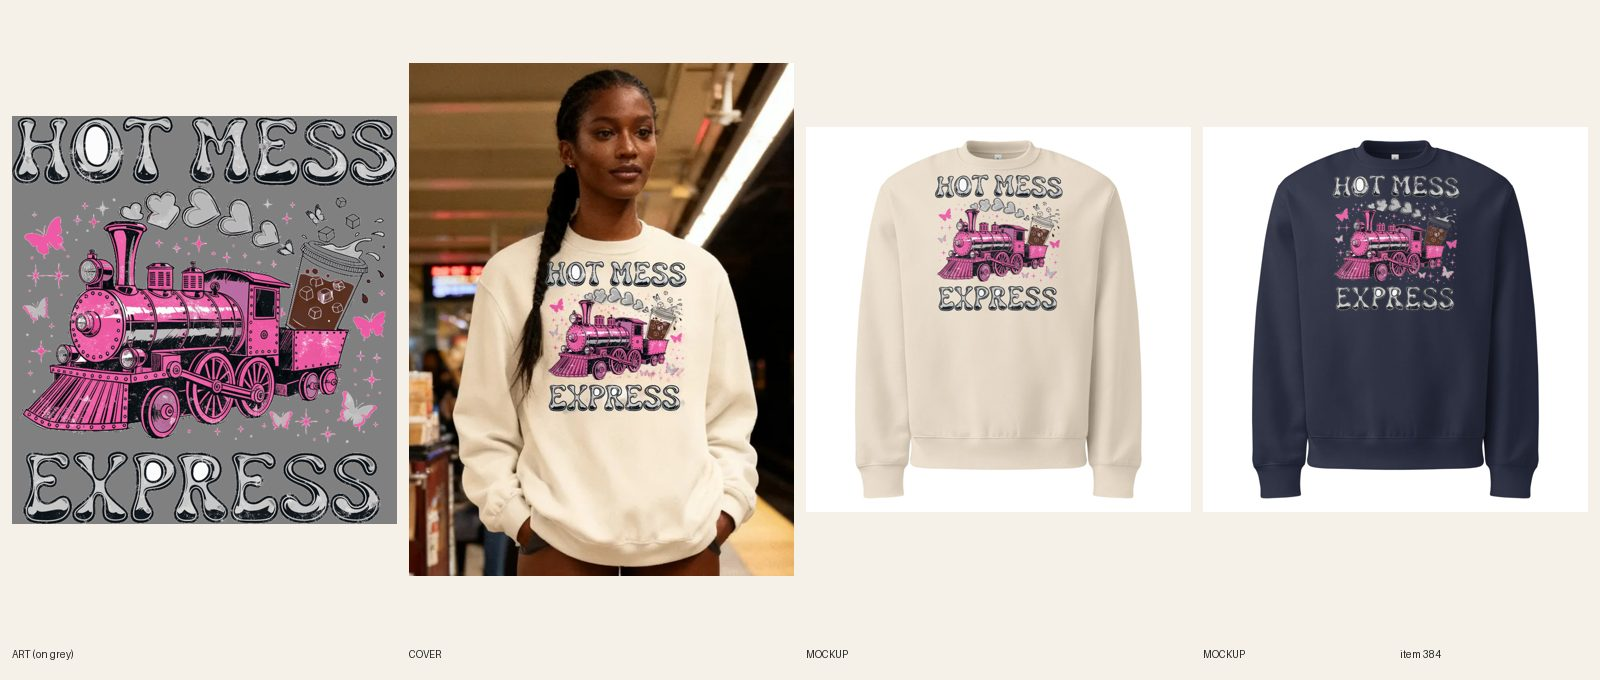
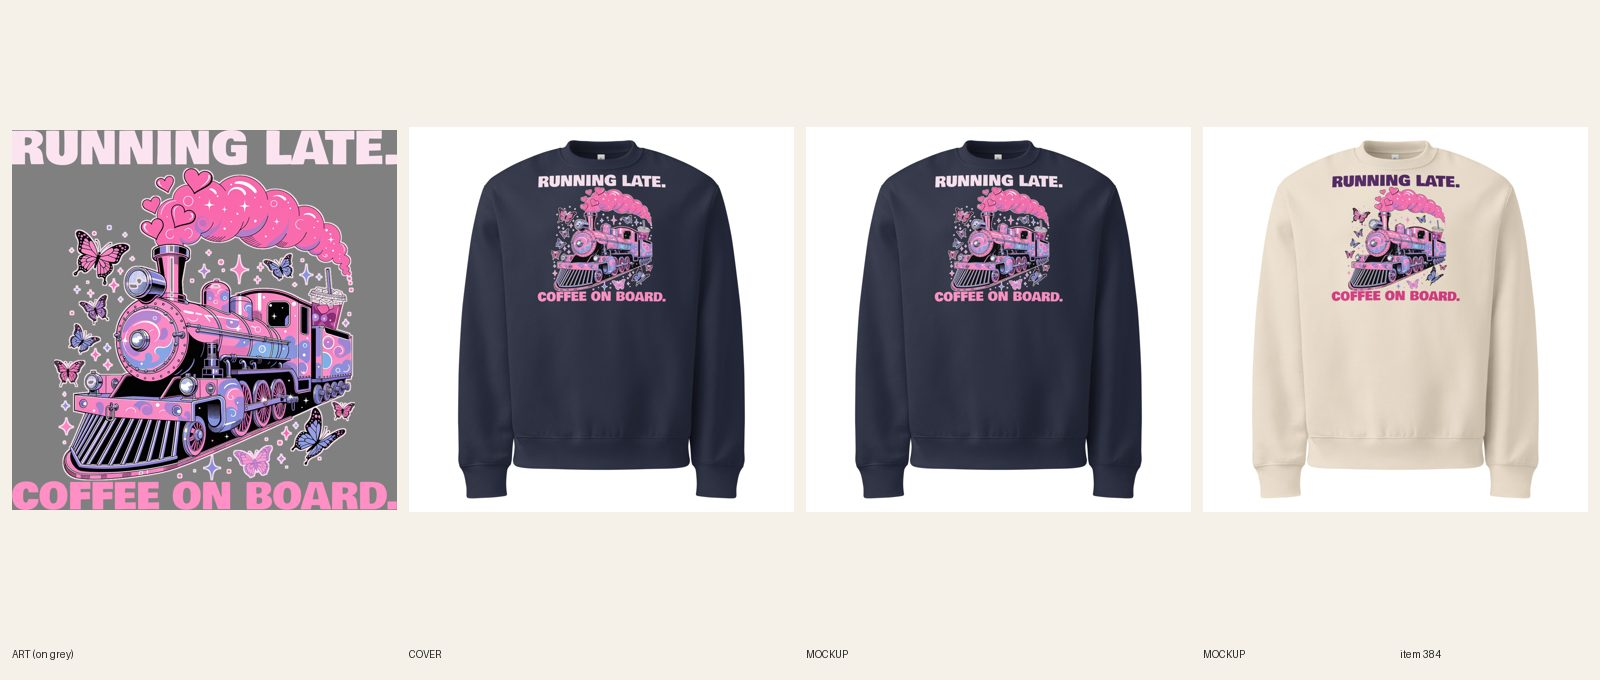
[B] review 384 Running Late Coffee on Board Y2K oversized sweatshirt (line + type redo)

diff --git a/docs/pipeline/384-y2k-osw-hot-mess-express.md b/docs/pipeline/384-y2k-osw-hot-mess-express.md
@@ -1,4 +1,4 @@
-status: BUILDING [B] 2026-10-20 06:58
+status: REVIEW
 lane: B
 type: twin
 id: 384
@@ -29,3 +29,4 @@ kd: 58
 - 2026-10-18 01:50 UTC builder [B]: REDO done (no fal). Re-composited the exact print on the full-resolution 1536x2048 photo with CC_DIFF=60 so the inpaint no longer smears the background by her right shoulder (smudge gone), braid kept on top and clear of every letter, then cropped the cover waist-up (780x1040 of the photo, resized to 600x800): head to the hem, legs out of frame, print about 215 px wide. Review sheet rebuilt, astro build OK. fal $0.
 - 2026-10-18 02:45 UTC director: LIVE (ACTIVE + Online Store/Headless/Google & YouTube, audit PASS 0 warn).
 - 2026-10-18 17:22 UTC director: QUALITY RESET grade C (new line + type), REDO. The product stays ACTIVE (same handle, URL, title keyword). 1. Line (R3.12, quality-reset 'Lines'): "HOT MESS / EXPRESS": Worn-out stock phrase, no new angle. Write 5 candidates, keep the one a stranger laughs at in 3 seconds without backstory; kill lines that only describe the picture; if none of the 5 is funny, PARK it. 2. Quality reset type bar (docs/backlog/quality-reset.md, 'The new bar'): headline at least 90% of the art width, heavy, colors pulled from the art; second line at least 45% of the headline's height, never a thin script on a dark or mid garment; use the lettering as a shape (arch, stacked lockup, words breaking into the art), not a plain bar above and a script line below; no font used on more than 1 in 6 of the last 30 designs. 3. Keep the art if it carries the new line, else one new illustration (R4/R5). New print means a new cover per R6.10, copy line one rewritten for the new joke (R8.3), and a fresh review sheet (R7.7). While quality-reset.md says PAUSED, only lane A builds, and only the samples step 2 names.
+- 2026-10-20 10:30 UTC builder [B]: REDO 384 (C grade, line + type) done in place (stays ACTIVE, handle unchanged; title now "Women's Y2K – Running Late, Coffee on Board Oversized Sweatshirt"). 5 candidates: "RUNNING LATE. / COFFEE ON BOARD."; "Hot Mess Express" (old); "Delayed. Emotionally."; "Next Stop: Nap"; "All Aboard The Mess". Kept RUNNING LATE. / COFFEE ON BOARD. (train timetable pun the iced coffee in the coal car pays off; a stranger gets it in 3 seconds). The old art carried the old words (hand-drawn chrome letters baked in), so one new Recraft call ($0.04): glossy pink steam train, heart smoke, butterflies, sparkles, iced coffee in the coal car, no words. Bowlby One, ink widths (builder 7h): headline RUNNING LATE. 3600 px / punch COFFEE ON BOARD. 3600 px (equal). Colors Dust + Navy (as before). Navy file 1090221981 (cream + pink, thin cream halo); Dust light file 1090221999 (headline fill plum, punch hot pink; light file logged for Dust). FW 1650 TOP 0. 12/12 synced on the right file per color (verified via Printful), back logo kept. Fronts + back replaced in place, alts, title, SEO, copy updated (the old FAQ set had only 3 questions; the three kept, product-specific answers 40+ words; this item's FAQ was not part of the redo note, so no change). Phone-size read OK on both. Cover: handle added to retired-covers.json. audit --handle PASS. fal $0.04. Sheet docs/review/384.jpg. Note: the Hot Mess Express tee #129, zip hoodie #264 and hoodie #452 still carry the old line and art.

diff --git a/docs/intake-log.md b/docs/intake-log.md
@@ -2,6 +2,7 @@ RUNNING director since 2026-10-20 07:17 UTC
 RUNNING lane C since 2026-10-20 07:00 UTC
 2026-10-20 07:13 UTC — [C] Builder run: redid #506 Men's Golf retired zip hoodie round 2 (director note: RETIRED. / BAD AT GOLF FULL-TIME., punch 2749/2734 px vs headline 2597 px, scene edge ragged-edge.py, Ash file 1090222550 + Navy file 1090222579, BW 1650 BT 225, 12/12 relinked, back mockups replaced, copy + SEO updated). REVIEW. fal $0.
 2026-10-20 06:47 UTC — [B] Run summary: REVIEW #280 #362 #404 #440 (punch width), #318 #396 #513 #519 (crew punch width), #455 (Lost My Gelt), #469 (Busy at a Good Part, embroidered), #697 (new Outdoorsy in Theory cropped hoodie). #485 was finished by a second lane B session. #498 left for director re-grade (R3.14). fal about $0.16. Lock released.
+2026-10-20 07:19 UTC — [B] Builder run: redid #384 Women's Y2K oversized sweatshirt (line + type: RUNNING LATE. / COFFEE ON BOARD., new pink-train art, Bowlby One, Navy + Dust light files, ink widths 3600/3600, 12/12 synced). REVIEW. fal $0.04.
 2026-10-20 06:57 UTC — [A] Builder run: redid #361 Men's Grandpa I Fix Things After Naps crewneck (line+type: ON THE LIST SINCE 2009. / AFTER MY NAP., same napping grandpa art, Bowlby One full width, FW 1650 TOP 75, Sand file 1090217238 / Navy file 1090217265, 12/12 relinked, 2 fronts replaced in place, copy updated, plain product shot). REVIEW. fal $0.
 2026-10-20 06:58 UTC — [B] Builder run: redid #467 Unisex Embroidered anxiety crewneck as the twin of #466 (REPLAYING / WHAT I SAID / IN 2014., Sand #333366 + Navy #FFFFFF, 12/12 synced). REVIEW. fal $0.
 RUNNING lane E since 2026-10-20 06:47 UTC
